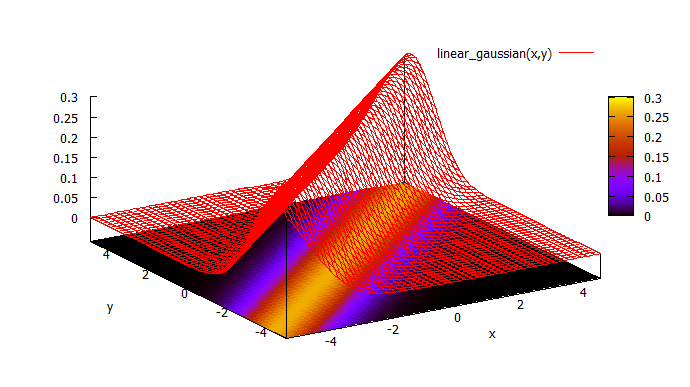
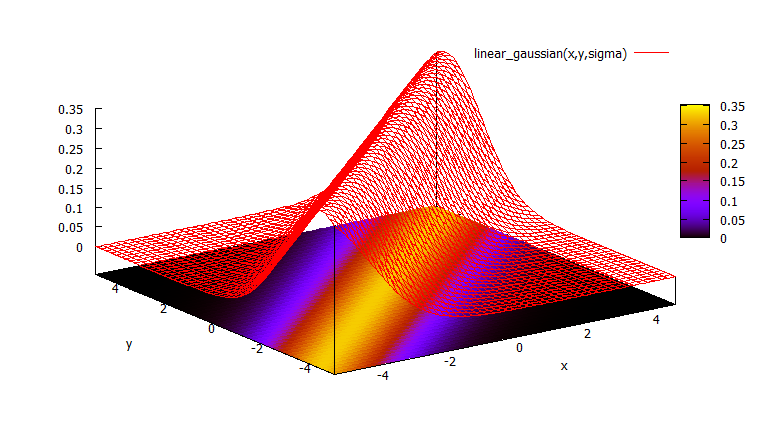
Fixing mistake in gaussian formula.

diff --git a/doc/plotting_gaussian/plotting_gaussian.md b/doc/plotting_gaussian/plotting_gaussian.md
@@ -92,10 +92,10 @@ Plotting Gaussians with Gnuplot
 	mu = 3
 	sigma = 1.5
 	
-	p = 1/sqrt(2*pi*sigma**2)
-	gaussian(x) = p * exp(-(x-mu)**2/(2*sigma))
+	p (sigma)= 1/sqrt(2*pi*sigma**2)
+	gaussian(x,mu,sigma) = p(sigma) * exp(-(x-mu)**2/(2*sigma**2))
 	
-	plot [mu-4*sigma:mu+4*sigma] gaussian(x)
+	plot [mu-4*sigma:mu+4*sigma] gaussian(x,mu,sigma)
 
 ![Univariate Gaussian](https://raw.github.com/danielkorzekwa/bayes-scala/master/doc/plotting_gaussian/gnuplot_univariate_gaussian.png "Univariate Gaussian")
 
@@ -135,8 +135,8 @@ Plotting Gaussians with Gnuplot
 	b = 0.1
 	sigma = 1.5
 	
-	p = 1/sqrt(2*pi*sigma**2)
-	linear_gaussian(x,y) = p * exp(-(y-(A*x+b))**2/(2*sigma))
+	p(sigma) = 1/sqrt(2*pi*sigma**2)
+	linear_gaussian(x,y,sigma) = p * exp(-(y-(A*x+b))**2/(2*sigma**2))
 	
 	set xlabel "x"
 	set ylabel "y"
@@ -146,7 +146,7 @@ Plotting Gaussians with Gnuplot
 	set isosample 50
 	#set pm3d map
 	
-	splot [-5:5] [-5:5] linear_gaussian(x,y)
+	splot [-5:5] [-5:5] linear_gaussian(x,y,sigma)
 
 ![Linear Gaussian](https://raw.github.com/danielkorzekwa/bayes-scala/master/doc/plotting_gaussian/gnuplot_linear_gaussian.png "Linear Gaussian")
 ![Linear Gaussian](https://raw.github.com/danielkorzekwa/bayes-scala/master/doc/plotting_gaussian/gnuplot_linear_gaussian_contour.png "Linear Gaussian")
